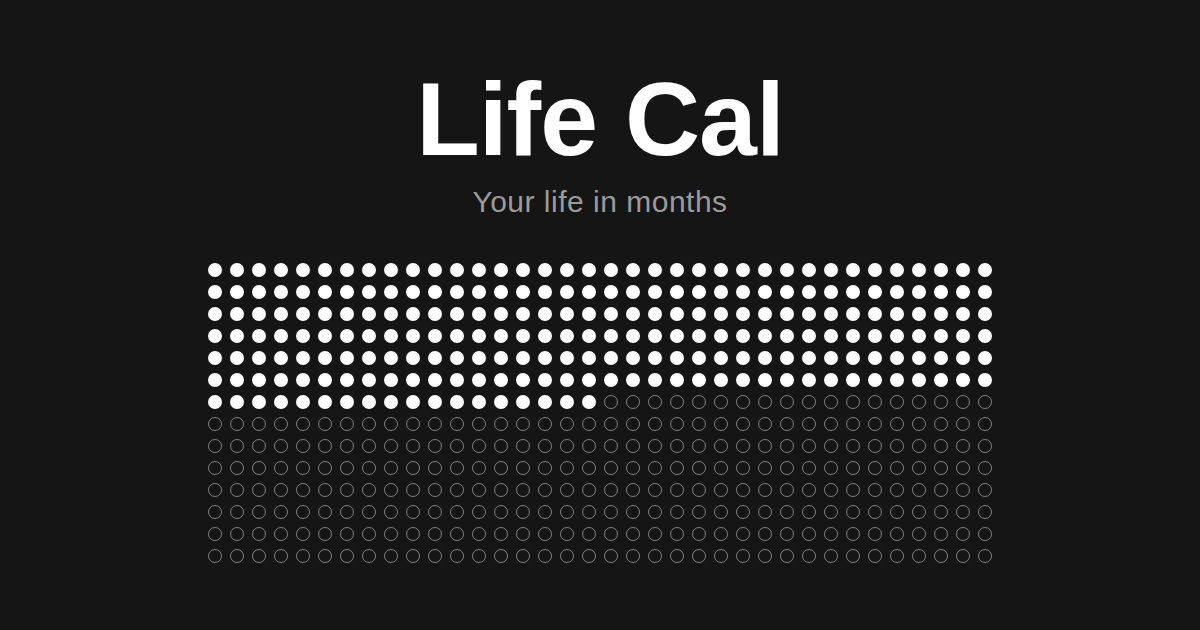
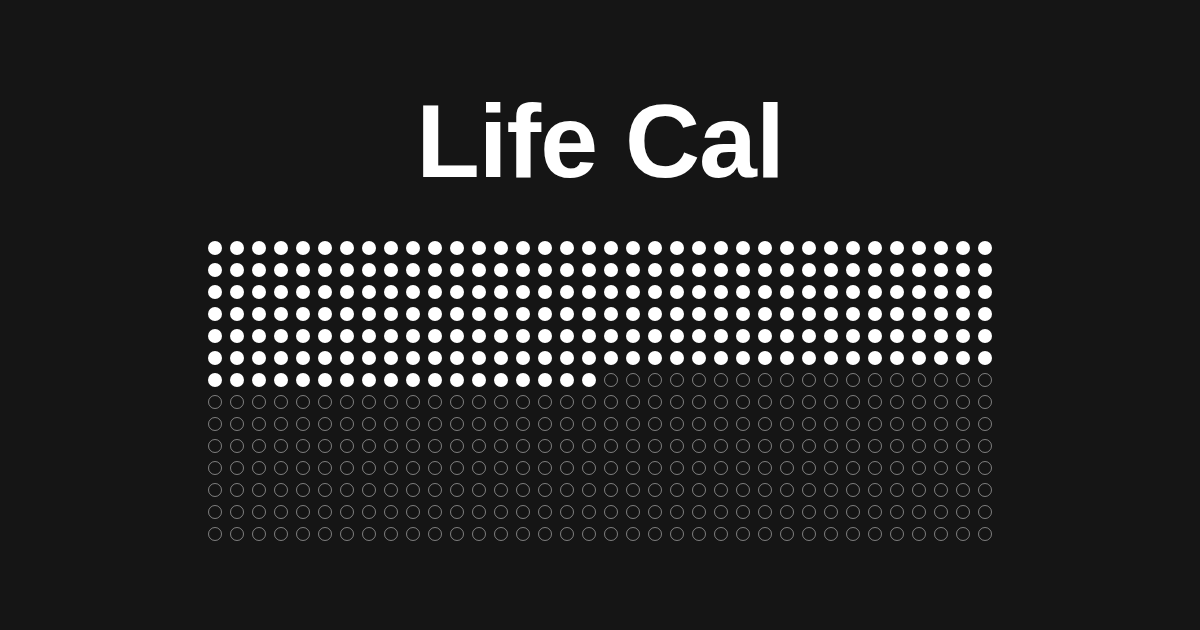
Remove tagline from OG image; bump image version for cache-bust
Drop the 'Your life in months' subtitle from the social image, keeping
just the Life Cal title and the dot grid. Add ?v=2 to the og:image and
twitter:image URLs so scrapers re-fetch the updated image.

Claude-Session: https://claude.ai/code/session_01E2H7EHKjtEES52dAvVaPjz

diff --git a/public/index.html b/public/index.html
@@ -29,7 +29,7 @@
     <meta property="og:url" content="https://lifecal.nathantowianski.com/" />
     <meta
       property="og:image"
-      content="https://lifecal.nathantowianski.com/og-image.png"
+      content="https://lifecal.nathantowianski.com/og-image.png?v=2"
     />
     <meta property="og:image:width" content="1200" />
     <meta property="og:image:height" content="630" />
@@ -47,7 +47,7 @@
     />
     <meta
       name="twitter:image"
-      content="https://lifecal.nathantowianski.com/og-image.png"
+      content="https://lifecal.nathantowianski.com/og-image.png?v=2"
     />
   </head>
   <body>